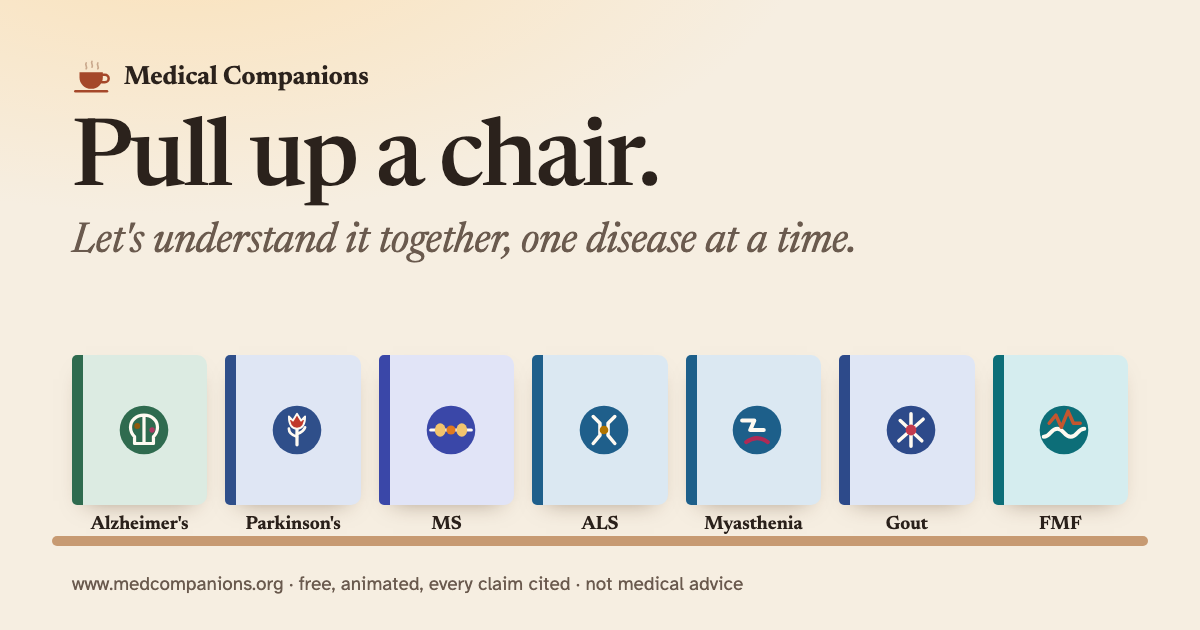
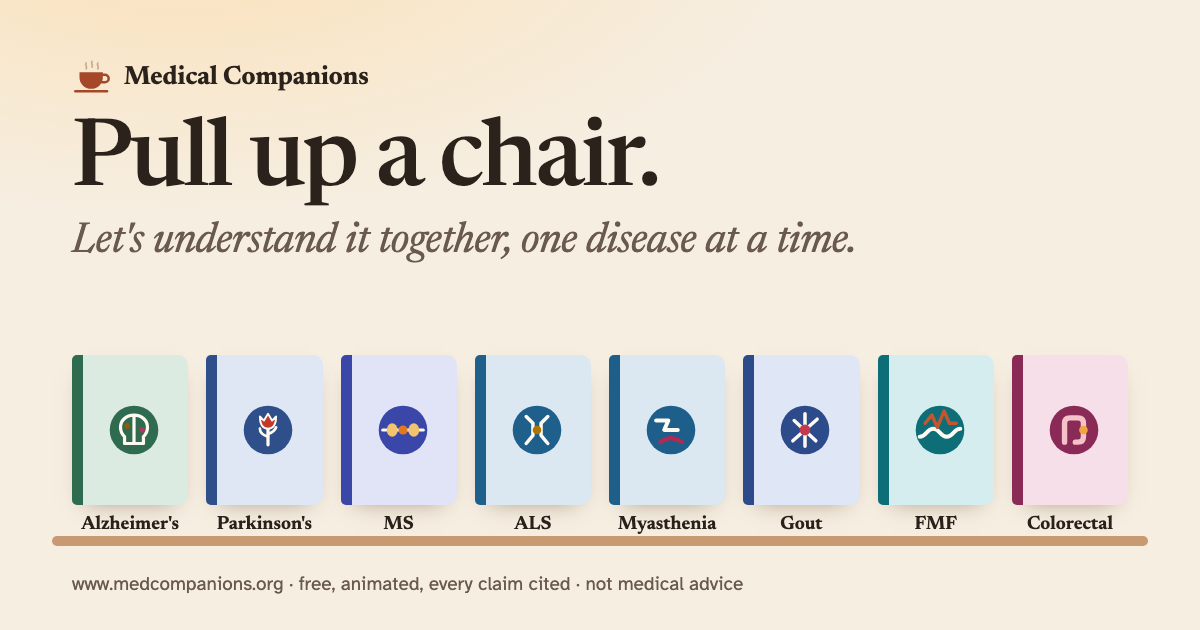
Colorectal cancer: checkpoint of modules in progress; hub share card with eight companions

Changed region(s): [[0.0617, 0.5429, 0.9558, 0.8444], [0.74, 0.8143, 0.8017, 0.8444]]

diff --git a/colorectal-cancer/src/js/23-schedule.js b/colorectal-cancer/src/js/23-schedule.js
@@ -43,7 +43,7 @@ const SH_STEPS=[
   pt:`The best test is the one you actually do, repeated on time. [[Wolf2026]]`,
   hook:`Strategies: FIT yearly; stool DNA-FIT 1–3 y; CTC 5 y; sigmoidoscopy 5 y (or 10 y + yearly FIT); colonoscopy 10 y. [[USPSTF2021]]`},
  {from:.3,at:.36,k:'What if',t:'If a test is positive',
-  txt:`Any positive non-colonoscopy test needs a follow-up colonoscopy, preferably within 6 months (ACS 2026). After a colonoscopy, the schedule switches to surveillance based on what was found (the calculator above), and the stool tests stop for as long as surveillance continues. In Kaiser Permanente, 79.4% of people with a positive FIT had a colonoscopy within 1 year. [[Wolf2026,Gupta2020,Doubeni2024]]`,
+  txt:`Any positive non-colonoscopy test needs a follow-up colonoscopy, preferably within 6 months (ACS 2026). After a colonoscopy, the schedule switches to surveillance based on what was found (the calculator above). In Kaiser Permanente, 79.4% of people with a positive FIT had a colonoscopy within 1 year. [[Wolf2026,Gupta2020,Doubeni2024]]`,
   pt:`A positive stool test means a colonoscopy within a few months. After that, the colonoscopy findings set the timetable. [[Corley2017,Wolf2026]]`,
   hook:`Colonoscopy >10 months after a positive FIT: more CRC (OR 1.48 at 10–12 months) and more advanced stage. [[Corley2017]]`},
  {from:.775,at:.82,k:'Age 76–85',t:'Grade C: an individual choice',
@@ -107,7 +107,7 @@ inits.schedule=()=>{
       if(scopeAt<start&&risk!=='fdr60')P.sub+=' (A colonoscopy before the usual start age is drawn as given.)';
     }else{
       const nx=P.ev.length?P.ev[0].a:start;
-      P.head=useCol?`Colonoscopy every 5 years from age ${start}`:iv==null?`${T.n}: from age ${start}, only if the preferred tests are declined`:`${T.n} ${iv===1?'every year':'every '+iv+' years'} from age ${start}`;
+      P.head=useCol?`Colonoscopy every 5 years from age ${start}`:T.fit?`Sigmoidoscopy every 10 years plus FIT every year from age ${start}`:iv==null?`${T.n}: from age ${start}, only if the preferred tests are declined`:`${T.n} ${iv===1?'every year':'every '+iv+' years'} from age ${start}`;
       P.sub=risk==='avg'?'Through 75, then an individual decision at 76–85.':risk==='fdr60p'?'Average-risk options, starting at 40.':'Family history: colonoscopy, whatever test was selected.';
       if(risk==='avg'&&tk!=='blood')P.quotes.push(`ACS 2026 reaffirms starting at 45 and continuing through 75 when life expectancy is over 10 years. ACP 2023 starts at 50. [[Wolf2026,Qaseem2023]]`);
       P.ev.forEach(e=>{if(e===P.ev[0])e.lab='start '+e.a});
@@ -116,7 +116,7 @@ inits.schedule=()=>{
     if(tk!=='col'&&!useCol)P.quotes.push(`A positive non-colonoscopy test needs a follow-up colonoscopy, preferably within 6 months (ACS 2026). [[Wolf2026]]`);
     return P}
   function drawT(){
-    const N=vb(ts,'720 270','400 300'),P=plan();
+    const P=plan(),hasE=P.esge.length>0||P.link,N=vb(ts,hasE?'720 270':'720 222',hasE?'400 300':'400 236');
     const A0=P.minA,A1=85,ax0=N?62:92,ax1=N?388:704,X=a=>ax0+(clamp(a,A0,A1)-A0)/(A1-A0)*(ax1-ax0);
     let s='';const lx=N?6:10;
     /* guideline bands */
@@ -142,7 +142,7 @@ inits.schedule=()=>{
     if(P.esge.length){const ey=ty+(N?60:58);s+=`<text x="${lx}" y="${ey+4}" class="t-xs" style="fill:var(--ink);font-weight:700">ESGE 2020</text><line x1="${ax0}" x2="${ax1}" y1="${ey}" y2="${ey}" style="stroke:var(--line);stroke-width:2;stroke-dasharray:4 3"/>`;
       P.esge.forEach((e,i)=>{const x=X(e.a);s+=glyph(x,ey,'o',{col:'var(--rx)',r:5.5})+`<text x="${f1(clamp(x,ax0+30,ax1-60))}" y="${ey+(i%2?22:-12)}" class="t-xs t-mid" style="fill:var(--rx);font-weight:700">${e.lab}</text>`})}
     /* axis */
-    const yy=N?262:236;
+    const yy=hasE?(N?262:236):(N?198:188);
     s+=`<line x1="${ax0}" x2="${ax1}" y1="${yy}" y2="${yy}" style="stroke:var(--muted)"/>`;
     for(let a=Math.ceil(A0/5)*5;a<=85;a+=5)s+=`<line x1="${f1(X(a))}" x2="${f1(X(a))}" y1="${yy}" y2="${yy+5}" style="stroke:var(--muted)"/><text x="${f1(X(a))}" y="${yy+17}" class="t-xs t-mid">${a}</text>`;
     s+=`<text x="${ax1}" y="${yy-6}" class="t-xs t-end">age</text>`;
@@ -156,7 +156,7 @@ inits.schedule=()=>{
   /* ---- lifetime animation: average risk, from 45, chosen test ---- */
   const ls=$('#shLife'),rg=$('#shT'),note=$('#shNote');
   function drawL(t){
-    const N=vb(ls,'720 340','400 520'),tk=sel('shTest'),T=SH_TESTS[tk];
+    const N=vb(ls,'720 340','400 440'),tk=sel('shTest'),T=SH_TESTS[tk];
     const age=45+t*40,ax0=N?30:60,ax1=N?380:700,X=a=>ax0+(a-45)/40*(ax1-ax0);
     let s='';
     const by=N?40:40;
@@ -187,7 +187,7 @@ inits.schedule=()=>{
     /* modelled totals */
     const k=ramp(t,.93,1);
     if(k>0){const M=tk==='col'?[['4,212–4,300','colonoscopies'],['301–369','life-years gained'],['3–8','CRC deaths remaining']]:tk==='fit'?[['1,602–1,824','colonoscopies'],['291–348','life-years gained'],['6–10','CRC deaths remaining']]:null;
-      const mx=N?30:400,my=N?340:226,w=N?340:300;
+      const mx=N?30:400,my=N?332:226,w=N?340:300;
       s+=`<g style="opacity:${f1(k)}"><rect x="${mx-10}" y="${my-22}" width="${w}" height="${M?102:66}" rx="10" style="fill:var(--panel-2);stroke:var(--line)"/>`;
       s+=`<text x="${mx}" y="${my-4}" class="t-xs" style="fill:var(--ink);font-weight:700">Modelled per 1,000, screening 45–75 (CISNET)</text>`;
       if(M)M.forEach((m,i)=>{s+=`<text x="${mx}" y="${my+20+i*22}" class="t-lbl" style="fill:var(--accent)">${m[0]}</text><text x="${mx+(N?100:100)}" y="${my+20+i*22}" class="t-xs">${m[1]}</text>`});

diff --git a/colorectal-cancer/src/js/32-staging.js b/colorectal-cancer/src/js/32-staging.js
@@ -188,7 +188,7 @@ inits.staging=()=>{
   /* ---- SEER summary stage ---- */
   const SEER={crc:[91,74,15],colon:[91,74,14],rectum:[90,74,18]},TREND=[[82,89],[52,66],[5,8]];
   const seer=$('#stSeer');let which='crc',sp=1,sStop=null;
-  function drawS(){const NS=vb(seer,'720 300','400 330'),v=SEER[which];
+  function drawS(){const NS=vb(seer,'400 330','400 330'),v=SEER[which];
     const G=NS?{x0:30,dx:124,w:84,b:250,h:190,ly:270,dy:286,dy2:300}:{x0:80,dx:210,w:130,b:236,h:190,ly:258,dy:276,dy2:290};let s='';
     [0,25,50,75,100].forEach(p=>{const y=G.b-G.h*p/100;s+=`<line x1="${G.x0-14}" x2="${G.x0+2*G.dx+G.w+10}" y1="${f1(y)}" y2="${f1(y)}" class="grid"/><text x="${G.x0-18}" y="${f1(y+4)}" class="t-xs t-end">${p}</text>`});
     const nm=['Localized','Regional','Distant'],ds=NS?[['only in','the bowel'],['nearby tissue','or nodes'],['spread','far']]:[['found only in','the bowel'],['reached nearby','tissue or nodes'],['spread to','distant sites']],cc=['var(--good)','var(--lymph)','var(--tumour)'];
@@ -204,7 +204,7 @@ inits.staging=()=>{
 
   /* ---- the paradox ---- */
   const PAR={css:[73.1,70.3,91.0],os:[64.9,63.0,83.1]},par=$('#stPar');let pm='css',pp=1,pStop=null;
-  function drawP(){const NP=vb(par,'720 300','400 330'),v=PAR[pm];
+  function drawP(){const NP=vb(par,'400 330','400 330'),v=PAR[pm];
     const G=NP?{x0:40,dx:118,w:84,b:262,h:200,ly:284}:{x0:90,dx:200,w:120,b:250,h:190,ly:274};let s='';
     [0,25,50,75,100].forEach(p=>{const y=G.b-G.h*p/100;s+=`<line x1="${G.x0-14}" x2="${G.x0+2*G.dx+G.w+10}" y1="${f1(y)}" y2="${f1(y)}" class="grid"/><text x="${G.x0-18}" y="${f1(y+4)}" class="t-xs t-end">${p}</text>`});
     ['IIB','IIC','IIIA'].forEach((n,i)=>{const x=G.x0+i*G.dx,h=G.h*v[i]/100*pp;
@@ -221,7 +221,7 @@ inits.staging=()=>{
   $('#stChk').innerHTML=HR.map(([k,n])=>`<label for="stHr_${k}"><input type="checkbox" id="stHr_${k}" data-sthr="${k}"><span>${n}</span></label>`).join('');
   function chk(){const on=HR.filter(([k])=>$('#stHr_'+k).checked).map(([k])=>k),risk=on.filter(k=>k!=='dmmr'),dm=on.includes('dmmr');
     let h;
-    if(!risk.length)h=`<p><b>No listed high-risk feature ticked.</b> ASCO 2022: adjuvant chemotherapy is not routine for stage II colon cancer outside a high-risk subgroup.${dm?' ASCO 2022 also says people with dMMR/MSI tumours should not routinely be offered adjuvant chemotherapy; in pooled trial data, stage II dMMR tumours did not benefit from fluorouracil alone.':''} [[Baxter2022${dm?',Sargent2010':''}]]</p>`;
+    if(!risk.length)h=`<p><b>No listed high-risk feature ticked.</b> ASCO 2022: adjuvant chemotherapy is not routine for stage II colon cancer outside a high-risk subgroup.${dm?' ASCO 2022 also says people with dMMR/MSI tumours should not routinely be offered adjuvant chemotherapy; in pooled trial data, stage II dMMR tumours did not benefit from fluorouracil alone.':''} ${dm?'[[Baxter2022,Sargent2010]]':'[[Baxter2022]]'}</p>`;
     else h=`<p><b>${risk.length} high-risk feature${risk.length>1?'s':''} ticked.</b> ${risk.includes('t4')?'ASCO 2022: patients with T4 tumours are at higher risk of recurrence and should be offered adjuvant chemotherapy. ':''}${risk.some(k=>k!=='t4')?'ASCO 2022 lists the other ticked features as high-risk factors that may lead to an offer of adjuvant chemotherapy. ':''}${dm?'With dMMR plus high-risk features, if chemotherapy is offered, ASCO 2022 recommends an oxaliplatin-containing regimen.':''} [[Baxter2022]]</p>`;
     $('#stChkOut').innerHTML=h+`<p class="stage-cap">Guideline statements as published, not advice for any one person. Treatment detail: <button class="stlink" data-go="chemo">chemotherapy after surgery</button>.</p>`}
   $('#stChk').addEventListener('change',chk);chk();

diff --git a/colorectal-cancer/src/sections/32-staging.html b/colorectal-cancer/src/sections/32-staging.html
@@ -53,15 +53,15 @@
   </div>
   <div class="lab even">
     <div class="stage">
-      <div class="scroll"><svg id="stSeer" viewBox="0 0 720 300" style="min-width:560px" role="img" aria-label="Bar chart of US 5-year relative survival by SEER summary stage for diagnoses in 2015 to 2021: localized 91%, regional 74%, distant 15% for colorectal cancer, with markers for the 1975–1977 and 1995–1997 figures."></svg></div>
-      <p class="stage-cap">US 5-year relative survival, diagnosed 2015–2021. Ticks: earlier periods (colorectal only). [[Siegel2026]]</p>
+      <div class="scroll"><svg id="stSeer" viewBox="0 0 400 330" style="min-width:320px" role="img" aria-label="Bar chart of US 5-year relative survival by SEER summary stage for diagnoses in 2015 to 2021: localized 91%, regional 74%, distant 15% for colorectal cancer, with markers for the 1975–1977 and 1995–1997 figures."></svg></div>
+      <p class="stage-cap">US 5-year relative survival, diagnosed 2015–2021. Dashed lines: 1975–1977 and 1995–1997 (colorectal only). [[Siegel2026]]</p>
     </div>
     <div class="stage">
       <div class="ctrls" role="group" aria-label="Measure"><span class="kicker">Paradox</span>
         <button class="btn" data-stp="css" aria-pressed="true">3-yr cancer-specific</button>
         <button class="btn" data-stp="os" aria-pressed="false">3-yr overall</button>
       </div>
-      <div class="scroll"><svg id="stPar" viewBox="0 0 720 300" style="min-width:560px" role="img" aria-label="Bar chart of the stage II/III survival paradox in SEER 2018 to 2021: 3-year cancer-specific survival 73.1% for stage IIB and 70.3% for IIC, but 91.0% for stage IIIA."></svg></div>
+      <div class="scroll"><svg id="stPar" viewBox="0 0 400 330" style="min-width:320px" role="img" aria-label="Bar chart of the stage II/III survival paradox in SEER 2018 to 2021: 3-year cancer-specific survival 73.1% for stage IIB and 70.3% for IIC, but 91.0% for stage IIIA."></svg></div>
       <p class="stage-cap">SEER 2018–2021, 4,692 colon cancers, AJCC 8th edition. [[Yu2024]]</p>
     </div>
   </div>
@@ -117,5 +117,5 @@
       <tr><th>9th edition</th><td>AJCC Version 9 revises colon cancer substaging.</td><td>In one single-centre study of 1,222 stage I–III colon cancers, 79.9% changed stage on restaging, with slightly better discrimination <span class="ev early">Early evidence</span>. [[Song2026]]</td></tr>
     </tbody>
   </table></div>
-  <p class="callout">Older systems such as Dukes' classification are still heard in clinic. TNM replaced them because it records depth, the number of positive nodes and metastatic sites separately, which the newer prognostic subgroups depend on. [[Gunderson2010,Tong2018]]</p>
+  <p class="callout">Why TNM rather than older systems such as Dukes' 1932 classification? TNM records depth, the number of positive nodes and metastatic sites separately, which the newer prognostic subgroups depend on. [[Gunderson2010,Tong2018]]</p>
 </section>

diff --git a/colorectal-cancer/src/sections/15-genes.html b/colorectal-cancer/src/sections/15-genes.html
@@ -29,7 +29,7 @@
   <div class="lab">
     <div class="stage">
       <div class="scroll"><svg id="gnSvg" viewBox="0 0 720 420" style="min-width:560px" role="img" aria-label="A three-generation pedigree. Squares are males, circles females, filled symbols have the disease, half-filled symbols are unaffected carriers, an arrow marks the proband. Scrubbing shows the proband's diagnosis, the family history, transmission from a carrier parent to each child, cascade testing of relatives and the surveillance that follows. A side panel shows the inheritance odds: 50% for a dominant syndrome, 25% affected and 50% carriers for a recessive one."></svg></div>
-      <div class="ctrls"><button class="btn primary" id="gnPlay">Play</button><label class="stage-cap tl" for="gnT">Family story <input type="range" id="gnT" min="0" max="1" step="0.001" value="0.3"></label></div>
+      <div class="ctrls"><button class="btn primary" id="gnPlay">Play</button><label class="stage-cap tl" for="gnT">Family story <input type="range" id="gnT" min="0" max="1" step="0.001" value="0.36"></label></div>
       <div class="readout" id="gnRead"></div>
       <p class="stage-cap"><b>Illustrative family</b>, not a real pedigree. Ages are chosen to match published patterns; the odds are standard Mendelian arithmetic. [[Syngal2015,Galiatsatos2006]]</p>
     </div>

diff --git a/colorectal-cancer/src/js/14-risk.js b/colorectal-cancer/src/js/14-risk.js
@@ -153,7 +153,7 @@ inits.risk=()=>{
       const ro=i===0?null:i===1?(young?11:4.8):8.2;
       if(ro!=null){const ry=by+C.bh+(N?16:12);const lft=X(ro)>(N?250:520);s+=`<circle cx="${f1(X(ro))}" cy="${f1(ry-3)}" r="3.5" style="fill:none;stroke:var(--brand);stroke-width:1.6"/><text x="${f1(X(ro)+(lft?-7:7))}" y="${f1(ry)}" class="t-xs${lft?' t-end':''}" style="fill:var(--brand)">${ro}% to age 85${i===1&&young?' (FDR <50)':''}</text>`}
     });
-    s+=`<text x="${C.lx}" y="${N?322:224}" class="t-xs">bar = for a 50-year-old (Butterworth 2006) · circle = to 85, W. Europe (Roos 2019)</text>`;
+    s+=N?`<text x="${C.lx}" y="312" class="t-xs">bar = a 50-year-old (Butterworth 2006)</text><text x="${C.lx}" y="325" class="t-xs">circle = to age 85, W. Europe (Roos 2019)</text>`:`<text x="${C.lx}" y="224" class="t-xs">bar = for a 50-year-old (Butterworth 2006) · circle = to 85, W. Europe (Roos 2019)</text>`;
     fs.innerHTML=s;
     /* result text */
     let rr,abs,more='',us,uk,cls;
